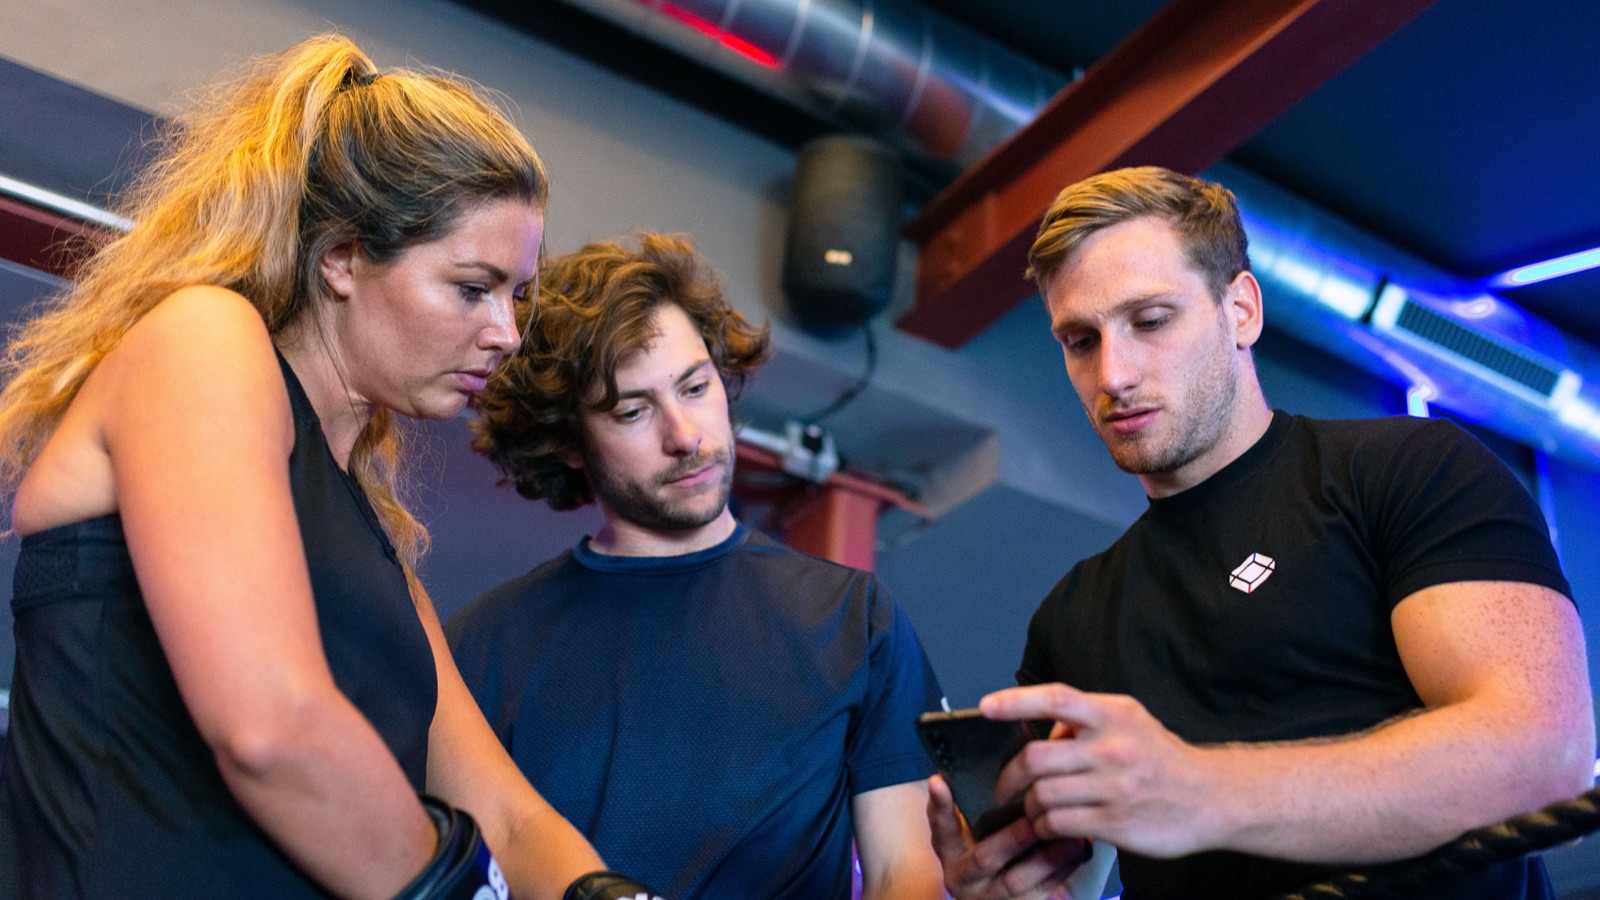
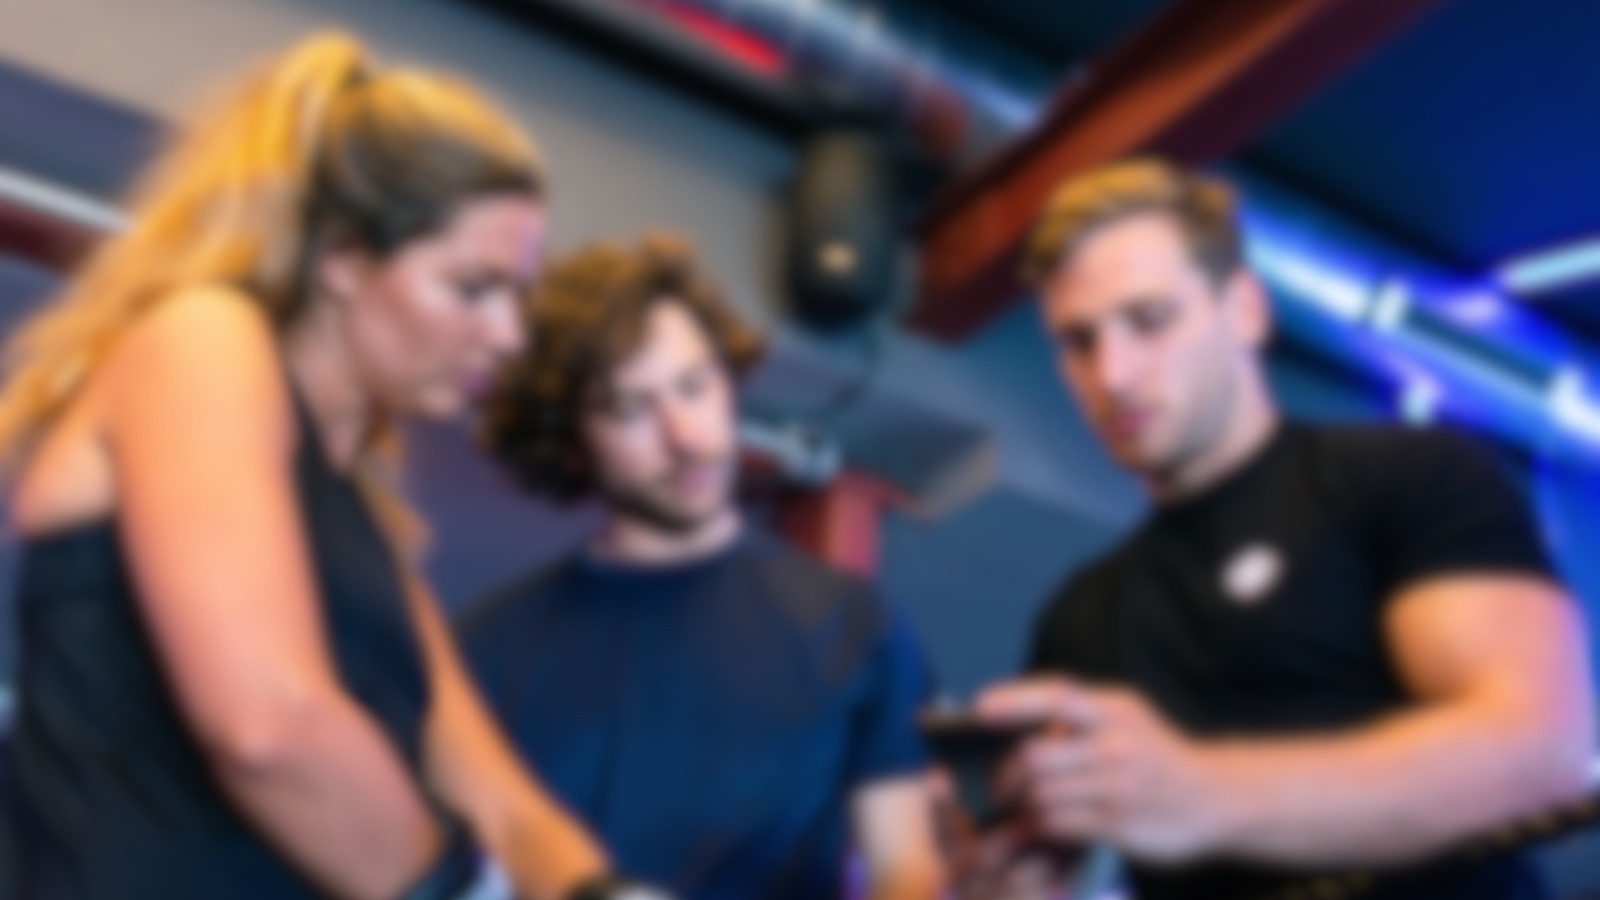
Podmień zdjęcie tła trzeciego artykułu na poprawioną wersję (hv.png)
- Źródło: tlodoartykulu3.png -> hv.png (ta sama scena, rozmyta/poprawiona
  wersja dostarczona przez klienta, ten sam wzorzec co podmiana zdjęcia
  w pierwszym artykule).
- Przeliczone images/artykul-jak-zdobyc-klientow-bez-reklam-hero.jpg
  (sips -Z 1600, JPEG q78) -- 137KB, było 366KB.
- Kontrast scrimu 0.65 zweryfikowany ponownie piksel po pikselu (PIL):
  5.28:1, lepszy margines niż przed podmianą (4.93:1) -- rozmycie
  złagodziło najostrzejszy odblask na zdjęciu.
- Stary tlodoartykulu3.png usunięty z repo.
- Komentarz w kodzie artykułu zaktualizowany (nowa nazwa źródła, nowe
  liczby kontrastu).

Claude-Session: https://claude.ai/code/session_01CG81qZpnYsoCUmaAMUzXPY

diff --git a/artykuly/jak-zdobyc-klientow-bez-reklam.html b/artykuly/jak-zdobyc-klientow-bez-reklam.html
@@ -49,14 +49,16 @@
 
     <!-- ============================ NAGŁÓWEK ARTYKUŁU ============================ -->
     <!-- Zdjęcie w tle: images/artykul-jak-zdobyc-klientow-bez-reklam-hero.jpg
-         (oryginał tlodoartykulu3.png, 1920x1080/2,9MB — zmniejszony do
-         1600x900 i skonwertowany na JPEG, ~366KB). .hero--cover (style.css)
-         dokłada przyciemnienie + jasny tekst; sam URL zdjęcia zostaje
-         inline, bo to treść tego konkretnego artykułu. Kontrast sprawdzony
-         piksel po pikselu (PIL): przy scrimie 0.65 najjaśniejszy realny
-         fragment zdjęcia (odblask ok. rgb 253,253,255) daje 4.93:1 —
-         najciaśniejszy margines z trzech artykułów dotąd, ale wciąż nad
-         wymagane 4.5:1. -->
+         (oryginał hv.png — poprawiona/rozmyta wersja pierwotnego
+         tlodoartykulu3.png, podmieniona przez klienta, 1920x1080/1,4MB —
+         zmniejszony do 1600x900 i skonwertowany na JPEG, ~137KB). .hero--cover
+         (style.css) dokłada przyciemnienie + jasny tekst; sam URL zdjęcia
+         zostaje inline, bo to treść tego konkretnego artykułu. Kontrast
+         sprawdzony ponownie po podmianie, piksel po pikselu (PIL): przy
+         scrimie 0.65 najjaśniejszy realny fragment zdjęcia (rgb ok.
+         231,241,253) daje 5.28:1 — rozmycie złagodziło najostrzejszy
+         odblask, więc margines jest teraz lepszy niż przed podmianą
+         (było 4.93:1). -->
     <section class="hero hero--compact hero--cover" style="background-image: url('../images/artykul-jak-zdobyc-klientow-bez-reklam-hero.jpg');">
       <div class="hero__inner">
         <p class="artykul__meta reveal">15 września 2026</p>
